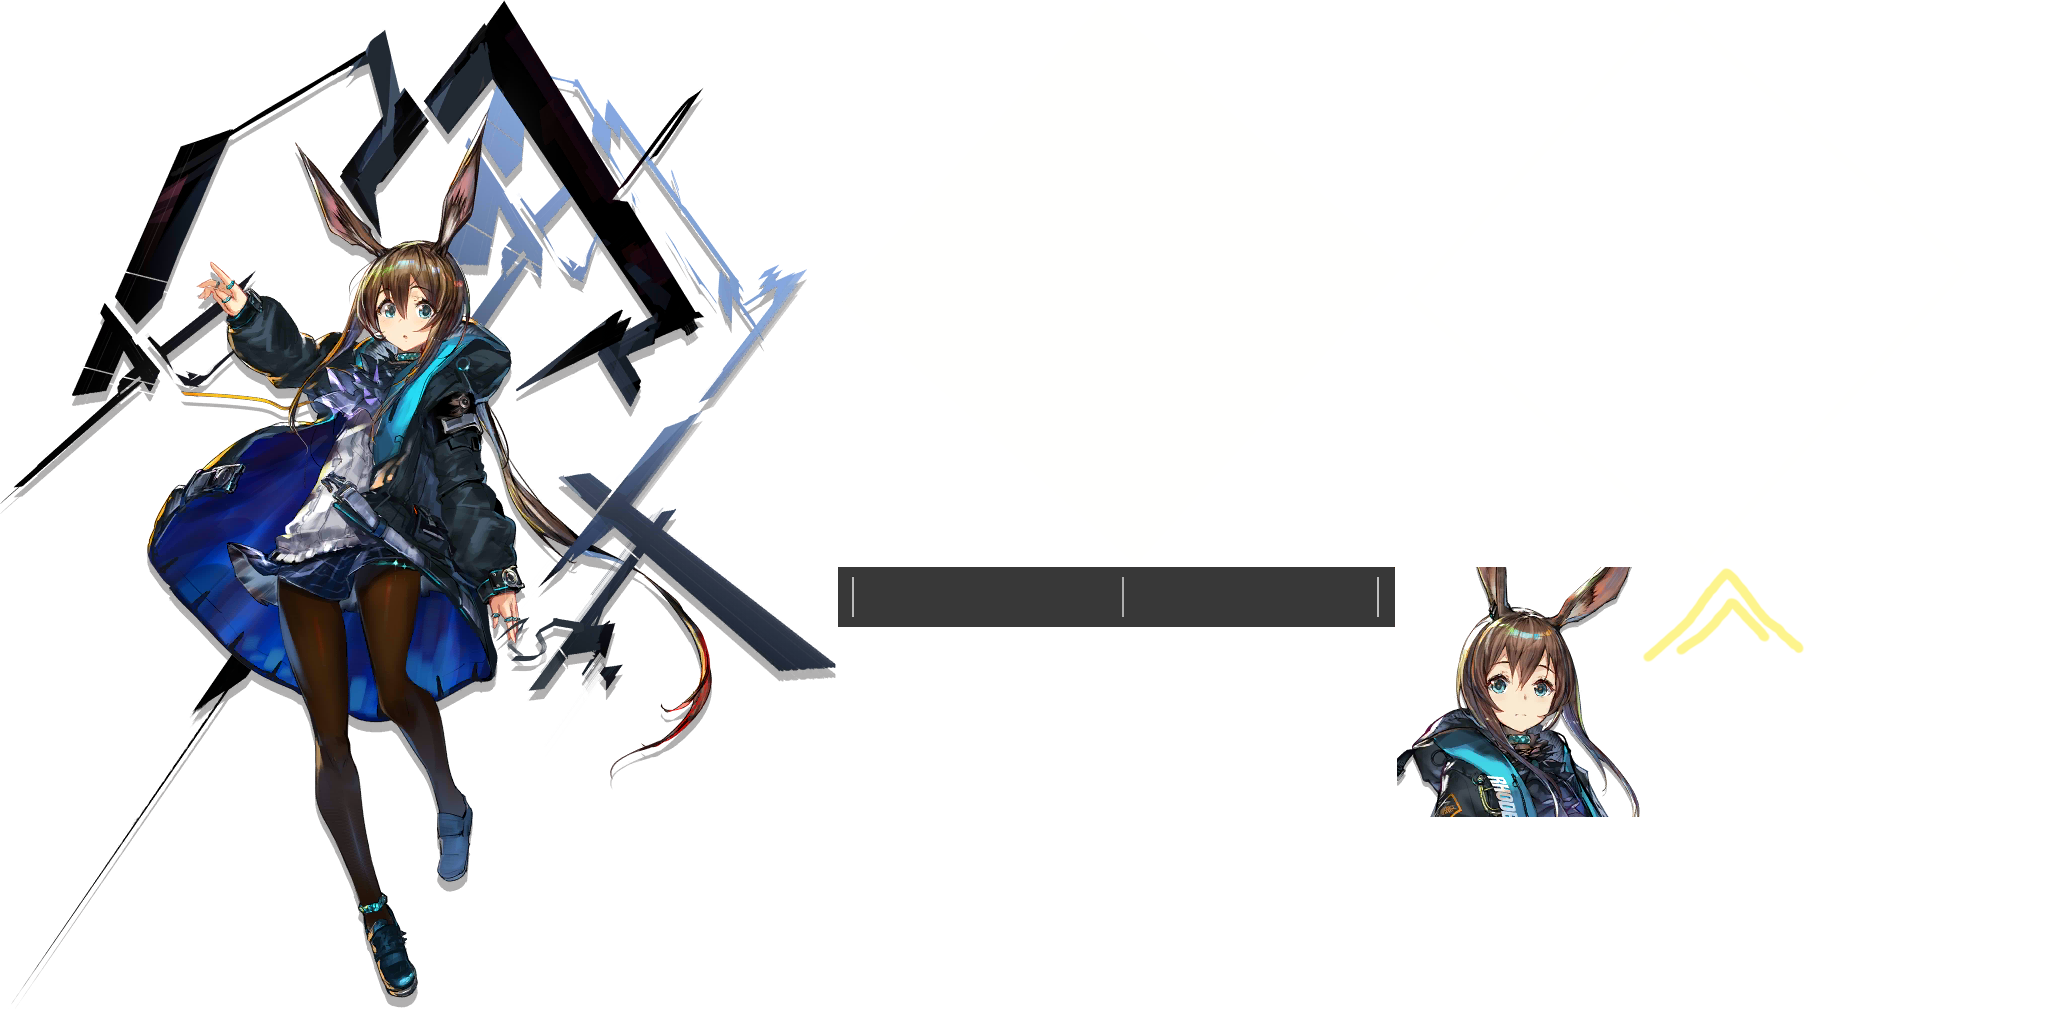
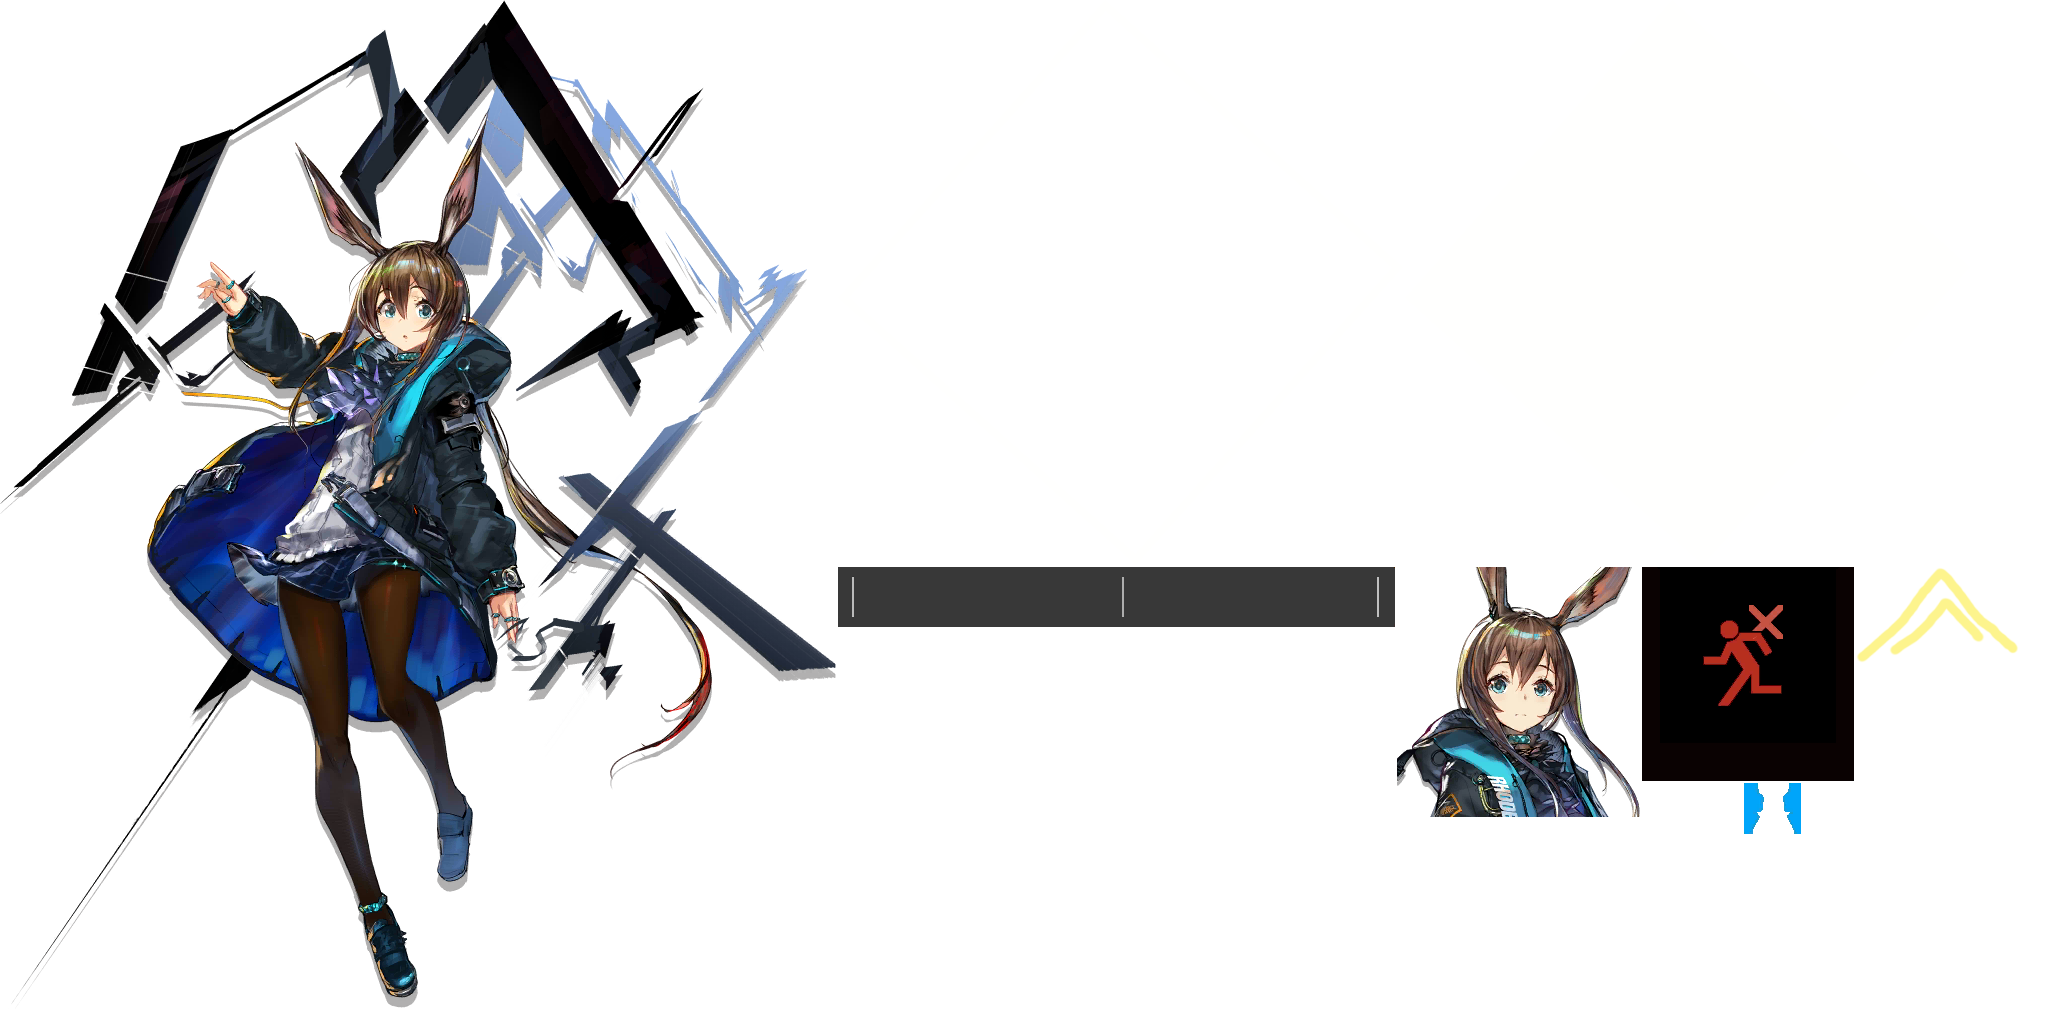
bugfix 溅射,飞行实现

Changed region(s): [[0.7812, 0.5312, 1.0, 0.8125]]

diff --git a/Assets/Scripts/Core/Skill/Types/主动.cs b/Assets/Scripts/Core/Skill/Types/主动.cs
@@ -134,6 +134,10 @@ namespace Skills
             Target = null;
         }
 
+        /// <summary>
+        /// 技能对一个单位实际生效的效果
+        /// </summary>
+        /// <param name="target"></param>
         public virtual void Effect(Unit target)
         {
 
@@ -151,19 +155,38 @@ namespace Skills
             }
         }
 
+        /// <summary>
+        /// 伤害判定阶段
+        /// </summary>
+        /// <param name="target"></param>
         public override void Hit(Unit target)
         {
             if (Unit.Skills[0]==this && Unit.MainSkill!=null&& Unit.MainSkill.Config.PowerType == MainSkillTypeEnum.主动)
             {
                 Unit.RecoverPower(1);
             }
-            target.Damage(new DamageInfo()
+            if (Config.AreaRange != null)
             {
-                Source = this,
-                Attack = Unit.Attack,
-                DamageRate = Config.DamageRate,
-                DamageType = Config.DamageType,
-            });
+                var targets = Battle.FindAll(target.Position2, Config.AreaRange.Value, Config.TargetTeam, Selectable);
+                foreach (var t in targets)
+                {
+                    t.Damage(new DamageInfo()
+                    {
+                        Source = this,
+                        Attack = Unit.Attack,
+                        DamageRate = t==target? Config.DamageRate:Config.AreaDamage,
+                        DamageType = Config.DamageType,
+                    });
+                }
+            }
+            else
+                target.Damage(new DamageInfo()
+                {
+                    Source = this,
+                    Attack = Unit.Attack,
+                    DamageRate = Config.DamageRate,
+                    DamageType = Config.DamageType,
+                });
         }
 
         /// <summary>
@@ -174,7 +197,7 @@ namespace Skills
         public virtual bool Selectable(Unit target)
         {
 
-            if (Config.AttackTarget == AttackTargetEnum.阻挡)
+            if (Config.AttackStop)
             {
                 if (Unit is Units.干员 u && !u.StopUnits.Contains(target)) return false;
                 if (Unit is Units.敌人 e && e.StopUnit != target) return false;
@@ -199,6 +222,9 @@ namespace Skills
                     return (target as Units.敌人).distanceToFinal();
                 case AttackTargetOrderEnum.放置顺序:
                     return (target as Units.干员).MapIndex;
+                case AttackTargetOrderEnum.飞行:
+                    //优先攻击飞行，次要攻击离家近的
+                    return (target as Units.敌人).distanceToFinal() - target.Config.Height == 0 ? 0 : -100;
             }
             return 0;
         }
@@ -217,7 +243,7 @@ namespace Skills
                 if (AttackPoints == null)
                 {
                     //靠半径寻找目标
-                    Target = Battle.FindFirst(Unit.Position2, Config.AttackRange, Selectable, targetOrder);
+                    Target = Battle.FindFirst(Unit.Position2, Config.AttackRange, Config.TargetTeam, Selectable, targetOrder);
                     if (Target != null) Debug.Log(Target.Config._Id);
                 }
                 else

diff --git a/Assets/Scripts/Core/Battle.cs b/Assets/Scripts/Core/Battle.cs
@@ -81,6 +81,7 @@ public class Battle
             var wave = Waves[0];
             Waves.RemoveAt(0);
             CreateEnemy(wave);
+            Debug.Log("CreateEnemy:" + Tick + wave._Id);
         }
 
         foreach (var bullet in Bullets.ToArray())
@@ -211,22 +212,61 @@ public class Battle
     }
 
     /// <summary>
-    /// 只支持圆形查找玩家单位
+    /// 
     /// </summary>
     /// <param name="pos"></param>
     /// <param name="radius"></param>
     /// <param name="match"></param>
     /// <returns></returns>
-    public Unit FindFirst(Vector2 pos, float radius, Func<Unit, bool> match, Func<Unit, float> sort)
+    public Unit FindFirst(Vector2 pos, float radius,int team, Func<Unit, bool> match, Func<Unit, float> sort)
     {
-        var units = PlayerUnits.Where(x => x.MapIndex >= 0).ToList();
-        units.Sort((x, y) => Math.Sign(sort(x) - sort(y)));
-        foreach (var unit in units)
+        if (team == 1)
         {
-            if ((unit.Position2 - pos).magnitude < radius + unit.Config.Radius
-                && match(unit)) return unit;
+            var units = PlayerUnits.Where(x => x.MapIndex >= 0).ToList();
+            units.Sort((x, y) => Math.Sign(sort(x) - sort(y)));
+            foreach (var unit in units)
+            {
+                if ((unit.Position2 - pos).magnitude < radius + unit.Config.Radius
+                    && match(unit)) return unit;
+            }
+        }
+        else
+        {
+            var units = new List<Unit>(Enemys);//Sort((x, y) => Math.Sign(sort(x) - sort(y)));
+            if (sort != null)
+            {
+                units.Sort((x, y) => Math.Sign(sort(x) - sort(y)));
+            }
+            foreach (var unit in units)
+            {
+                if ((unit.Position2 - pos).magnitude < radius + unit.Config.Radius
+                    && match(unit)) return unit;
+            }
         }
         return null;
+    }
+
+    public HashSet<Unit> FindAll(Vector2 pos, float radius, int team, Func<Unit, bool> match)
+    {
+        HashSet<Unit> result = new HashSet<Unit>();
+        if (team == 1)
+        {
+            var units = PlayerUnits.Where(x => x.MapIndex >= 0).ToList();
+            foreach (var unit in units)
+            {
+                if ((unit.Position2 - pos).magnitude < radius + unit.Config.Radius
+                    && match(unit)) result.Add(unit);
+            }
+        }
+        else
+        {
+            foreach (var unit in Enemys)
+            {
+                if ((unit.Position2 - pos).magnitude < radius + unit.Config.Radius
+                    && match(unit)) result.Add(unit);
+            }
+        }
+        return result;
     }
 
     void updateUnitMap()

diff --git a/Assets/Scripts/Init.cs b/Assets/Scripts/Init.cs
@@ -31,9 +31,17 @@ public class Init : MonoBehaviour
         });
     }
 
-    private void FixedUpdate()
+    public float startTime;
+    private void Update()
     {
-        Battle?.Update();
+        if (Battle != null)
+        {
+            int frame = Mathf.FloorToInt((Time.time - startTime - Battle.Tick * SystemConfig.DeltaTime) / SystemConfig.DeltaTime);
+            for (int i = 0; i < frame; i++)
+            {
+                Battle.Update();
+            }
+        }
     }
 
     async void StartBattle(BattleInput battleConfig)
@@ -44,6 +52,7 @@ public class Init : MonoBehaviour
         Battle = new Battle();
         Battle.Init(battleConfig);
         battleUI.SetBattle(Battle);
+        startTime = Time.time;
         //var path = Battle.Map.FindPath(Battle.Map.Grids[1, 3], Battle.Map.Grids[8, 1]);
         //foreach (var grid in path)
         //{

diff --git a/Assets/Scripts/UI/AutoRelease/BattleUI/UI_SkillUsePanel.cs b/Assets/Scripts/UI/AutoRelease/BattleUI/UI_SkillUsePanel.cs
@@ -1,0 +1,29 @@
+/** This is an automatically generated class by FairyGUI. Please do not modify it. **/
+
+using FairyGUI;
+using FairyGUI.Utils;
+
+namespace BattleUI
+{
+    public partial class UI_SkillUsePanel : GComponent
+    {
+        public UI_MainSkillInfo m_mainSkillInfo;
+        public GComponent m_Leave;
+        public const string URL = "ui://vp312gabkbte47";
+
+        public static UI_SkillUsePanel CreateInstance()
+        {
+            return (UI_SkillUsePanel)UIPackage.CreateObject("BattleUI", "SkillUsePanel");
+        }
+
+        public override void ConstructFromXML(XML xml)
+        {
+            base.ConstructFromXML(xml);
+
+            m_mainSkillInfo = (UI_MainSkillInfo)GetChildAt(0);
+            m_Leave = (GComponent)GetChildAt(2);
+            Init();
+        }
+        partial void Init();
+    }
+}

diff --git a/Assets/Scripts/UI/AutoRelease/BattleUI/UI_MainSkillInfo.cs b/Assets/Scripts/UI/AutoRelease/BattleUI/UI_MainSkillInfo.cs
@@ -1,0 +1,29 @@
+/** This is an automatically generated class by FairyGUI. Please do not modify it. **/
+
+using FairyGUI;
+using FairyGUI.Utils;
+
+namespace BattleUI
+{
+    public partial class UI_MainSkillInfo : GComponent
+    {
+        public Controller m_using;
+        public GImage m_bar;
+        public const string URL = "ui://vp312gabkbte48";
+
+        public static UI_MainSkillInfo CreateInstance()
+        {
+            return (UI_MainSkillInfo)UIPackage.CreateObject("BattleUI", "MainSkillInfo");
+        }
+
+        public override void ConstructFromXML(XML xml)
+        {
+            base.ConstructFromXML(xml);
+
+            m_using = GetControllerAt(0);
+            m_bar = (GImage)GetChildAt(1);
+            Init();
+        }
+        partial void Init();
+    }
+}

diff --git a/Assets/Scripts/Core/Unit/Types/敌人.cs b/Assets/Scripts/Core/Unit/Types/敌人.cs
@@ -85,9 +85,10 @@ namespace Units
         /// <summary>
         /// 判断是否有人在阻挡自己
         /// </summary>
-        public void CheckBlock()
+        public virtual void CheckBlock()
         {
-            var blockUnit = Battle.FindFirst(Position2, Config.Radius, x => (x as Units.干员).CanStop(this), x => (x.Position2 - Position2).magnitude) as 干员;
+            if (Config.Height > 0) return;//飞行单位无法被阻挡
+            var blockUnit = Battle.FindFirst(Position2, Config.Radius, 0, x => (x as Units.干员).CanStop(this), x => (x.Position2 - Position2).magnitude) as 干员;
             if (blockUnit != null)
             {
                 StopUnit = blockUnit;

diff --git a/Assets/Scripts/UI/AutoRelease/BattleUI/UI_Battle.cs b/Assets/Scripts/UI/AutoRelease/BattleUI/UI_Battle.cs
@@ -19,6 +19,7 @@ namespace BattleUI
         public GComponent m_DirectonCancal;
         public UI_SetPanel m_DirectionPanel;
         public GProgressBar m_costBar;
+        public UI_SkillUsePanel m_SkillUsePanel;
         public const string URL = "ui://vp312gabf1460";
 
         public static UI_Battle CreateInstance()
@@ -42,6 +43,7 @@ namespace BattleUI
             m_DirectonCancal = (GComponent)GetChildAt(14);
             m_DirectionPanel = (UI_SetPanel)GetChildAt(15);
             m_costBar = (GProgressBar)GetChildAt(16);
+            m_SkillUsePanel = (UI_SkillUsePanel)GetChildAt(17);
             Init();
         }
         partial void Init();

diff --git a/Assets/Scripts/UI/AutoRelease/BattleUI/BattleUIBinder.cs b/Assets/Scripts/UI/AutoRelease/BattleUI/BattleUIBinder.cs
@@ -16,6 +16,8 @@ namespace BattleUI
             UIObjectFactory.SetPackageItemExtension(UI_BattleLeft.URL, typeof(UI_BattleLeft));
             UIObjectFactory.SetPackageItemExtension(UI_HuiZhao.URL, typeof(UI_HuiZhao));
             UIObjectFactory.SetPackageItemExtension(UI_SetPanel.URL, typeof(UI_SetPanel));
+            UIObjectFactory.SetPackageItemExtension(UI_SkillUsePanel.URL, typeof(UI_SkillUsePanel));
+            UIObjectFactory.SetPackageItemExtension(UI_MainSkillInfo.URL, typeof(UI_MainSkillInfo));
         }
     }
 }

diff --git a/Assets/Scripts/Core/Config/SkillConfig.cs b/Assets/Scripts/Core/Config/SkillConfig.cs
@@ -29,6 +29,10 @@ public class SkillConfig : IConfig
     public int StartPower;
     public int MaxPower;
     public int PowerCount;
+    [BsonRepresentation(BsonType.Double, AllowTruncation = true)]
+    public float? AreaRange;
+    [BsonRepresentation(BsonType.Double, AllowTruncation = true)]
+    public float AreaDamage;
     public MainSkillTypeEnum PowerType;
     public MainSkillUseTypeEnum PowerUseType;
     public int HitCount;

diff --git a/Assets/Scripts/UI/Battle/UI_Battle.cs b/Assets/Scripts/UI/Battle/UI_Battle.cs
@@ -195,7 +195,7 @@ namespace BattleUI
                     BattleCamera.Instance.EndBuild();
                     break;
                 case 1:
-                    TimeHelper.Instance.SetGameSpeed(0.1f);
+                    TimeHelper.Instance.SetGameSpeed(0.2f);
                     m_left.SetUnit(selectedUnit);
                     break;
                 case 3:

diff --git a/Assets/Scripts/Core/SystemConfig.cs b/Assets/Scripts/Core/SystemConfig.cs
@@ -6,7 +6,7 @@ using System.Threading.Tasks;
 
 public class SystemConfig
 {
-    public static float DeltaTime => UnityEngine.Time.fixedDeltaTime;
+    public static float DeltaTime => 1 / 60f;
     public static float TurningTime = 0.15f;
 }
 

diff --git a/Assets/Scripts/Core/Enum/UnitTargetOrderEnum.cs b/Assets/Scripts/Core/Enum/UnitTargetOrderEnum.cs
@@ -9,5 +9,6 @@ public enum AttackTargetOrderEnum
     血量,
     离家近,
     放置顺序,
+    飞行,
 }
 
